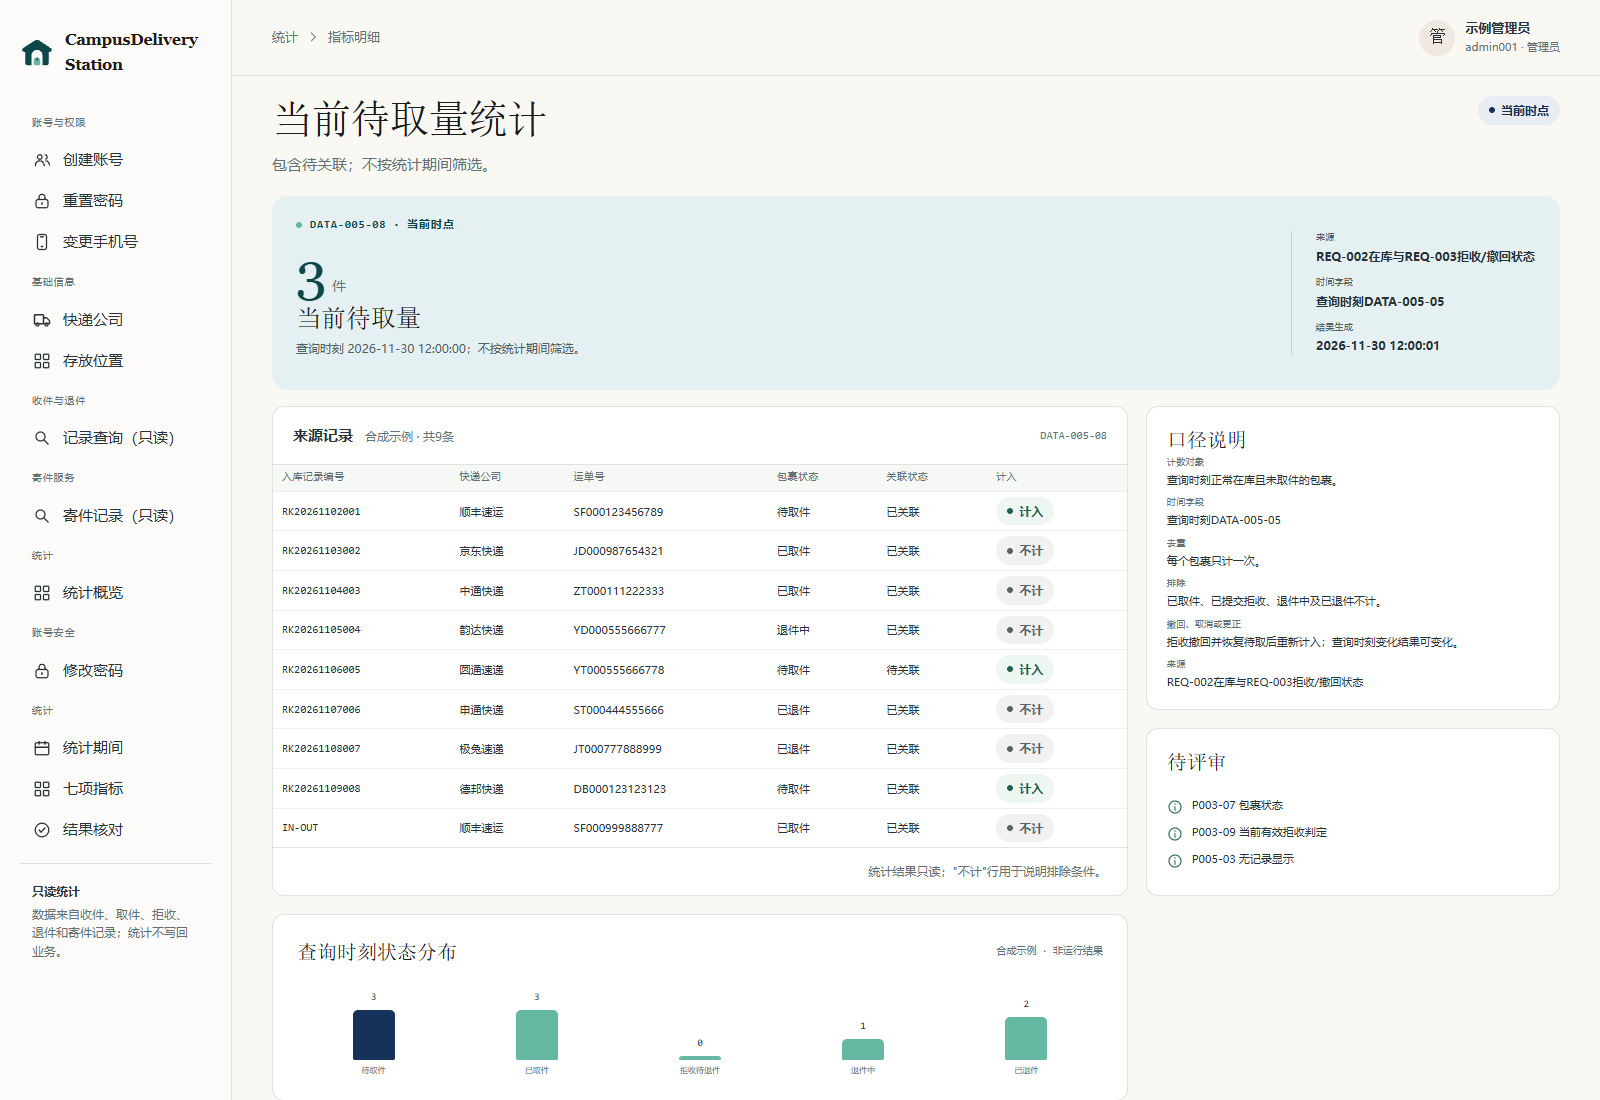
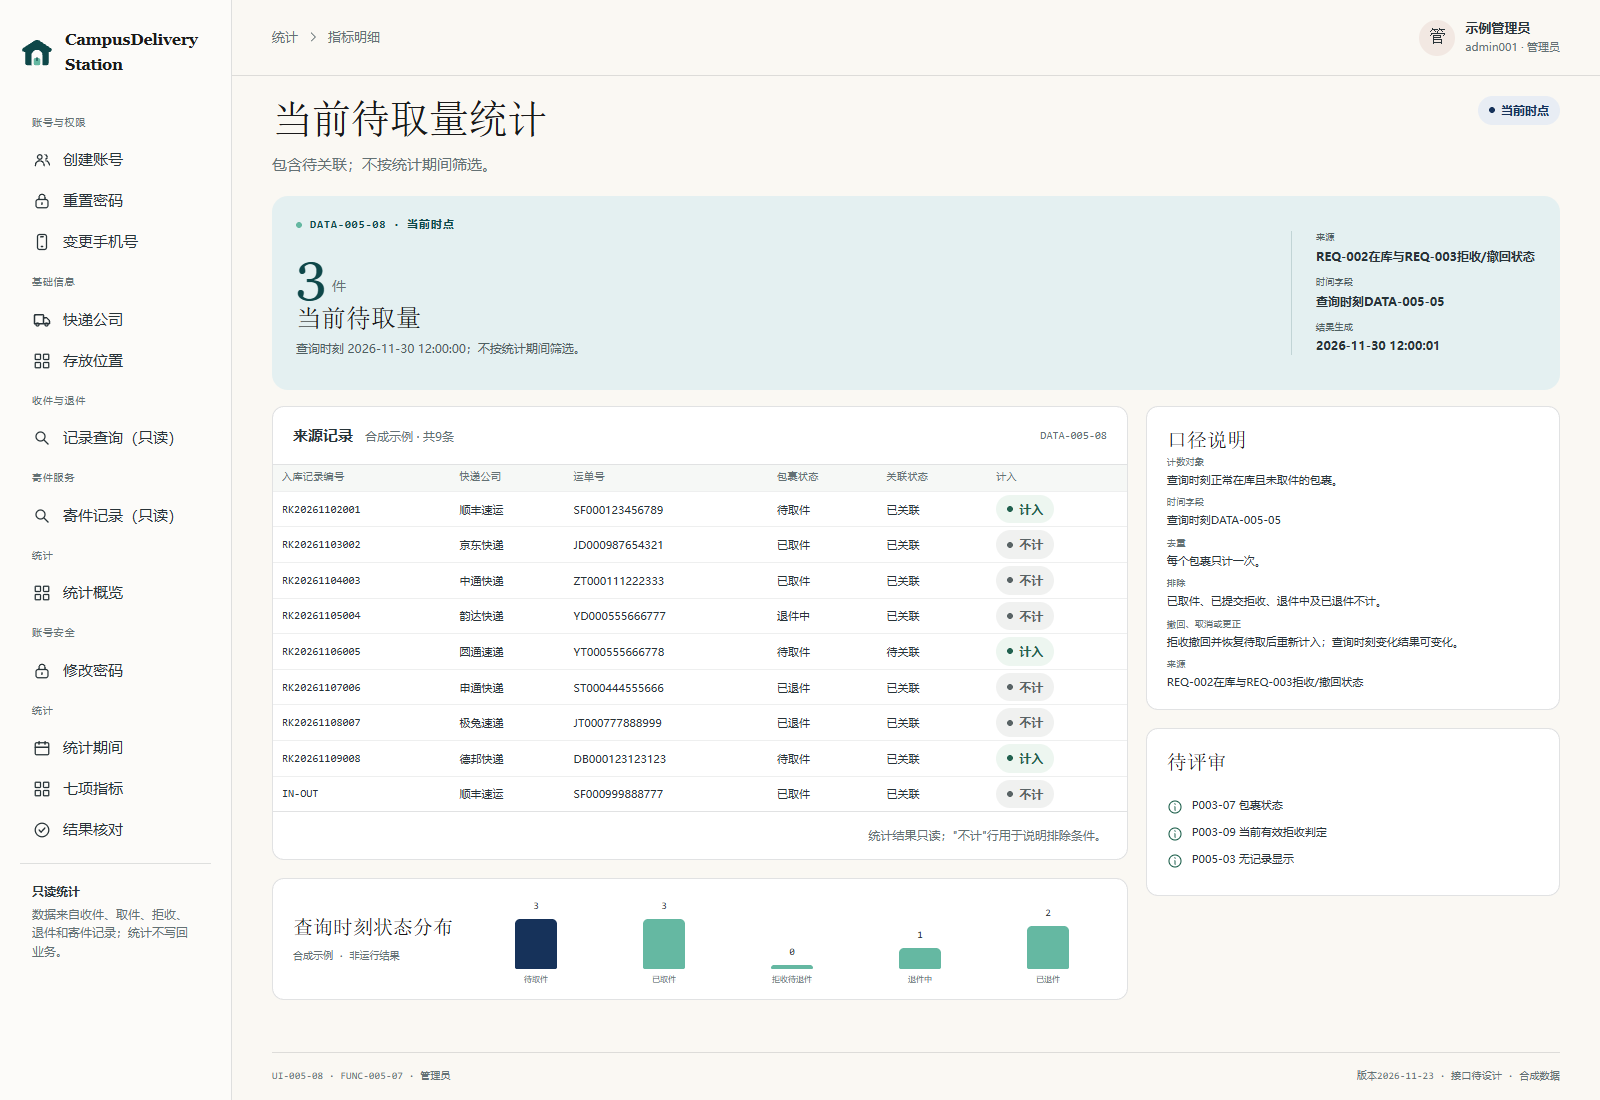
fix(prototype): 完整导出待取量统计图及页脚

diff --git a/docs/requirements/prototypes/戴靖桓_REQ-005/prototype.css b/docs/requirements/prototypes/戴靖桓_REQ-005/prototype.css
@@ -451,6 +451,24 @@
 
 .trend-bar.current span { background: var(--navy); }
 
+@media (min-width: 1121px) {
+  .export .detail-main:has(.trend-bars) .detail-table td { padding-block: 3px; }
+
+  .export .detail-main .card:has(.trend-bars) {
+    display: grid;
+    grid-template-columns: auto minmax(0, 1fr);
+    align-items: center;
+    gap: 24px;
+    padding: 12px 20px;
+  }
+
+  .export .detail-main .card:has(.trend-bars) .card-head {
+    display: grid;
+    gap: 6px;
+    margin: 0;
+  }
+}
+
 .trend-bar small {
   color: var(--muted);
   font-family: var(--font-mono);

diff --git a/docs/management/team.md b/docs/management/team.md
@@ -51,6 +51,7 @@
 
 | 日期 | 关联任务 | 关键进展 |
 | --- | --- | --- |
+| 2026-11-24 | TASK-002 | 修复UI-005-08导出页脚截断。Edge在1600×1100核对9行来源记录、5项状态分布及完整页脚，重导PNG；390px宽视口无页面横向溢出。 |
 | 2026-11-24 | TASK-002 | 按负责人决定停用调研报告，现行依据改引决策、功能分析及共享数据登记。复核12份工作簿及Markdown入口，项目计划书导出9页。TASK-002继续进行，修订待组员评审。 |
 | 2026-11-24 | TASK-002 | 从899e889接入REQ-005、从e3261da接入REQ-004，统一五模块角色导航、本人改密入口、统计事件与差异核对。Edge验证三类角色往返、跨期筛选及差异更新；同步57张截图及寄件DOCX的12张嵌图，Word导出13页。 |
 | 2026-11-24 | TASK-002 | 按ADR-007、ADR-008同步查重、拒收定位、固定层位及公司更名规则。逐格复查数据类和数据项，补齐拒收申请备注的编号引用。更新流程07源图、PNG和汇总DOCX；Word导出28页。 |
